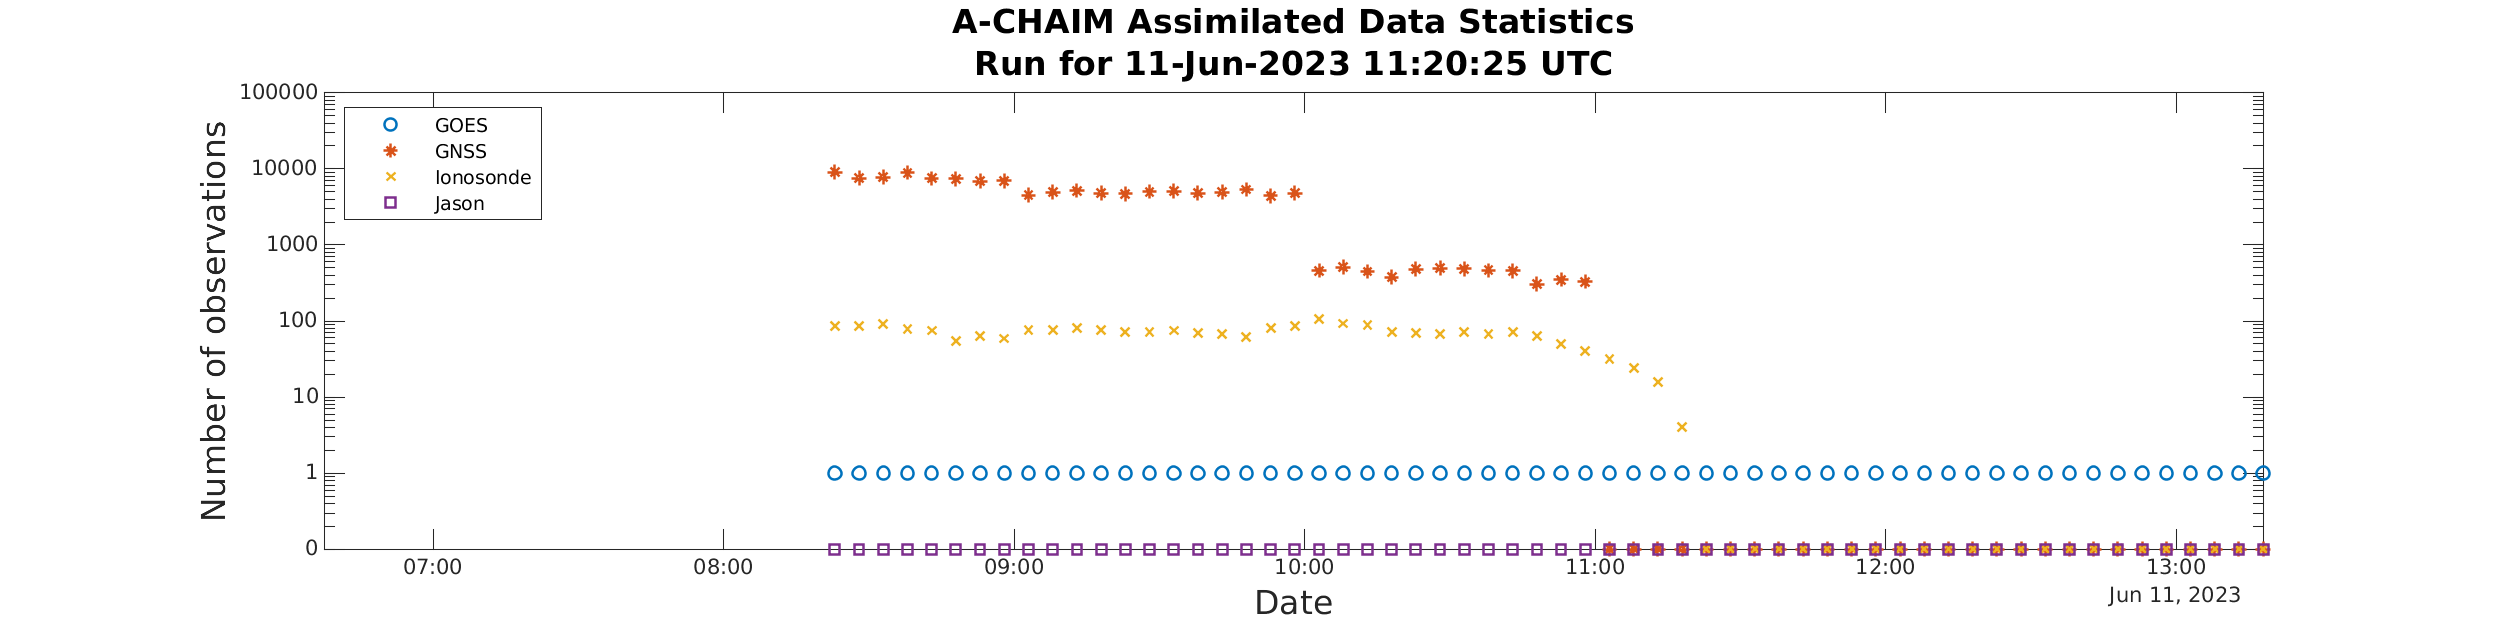
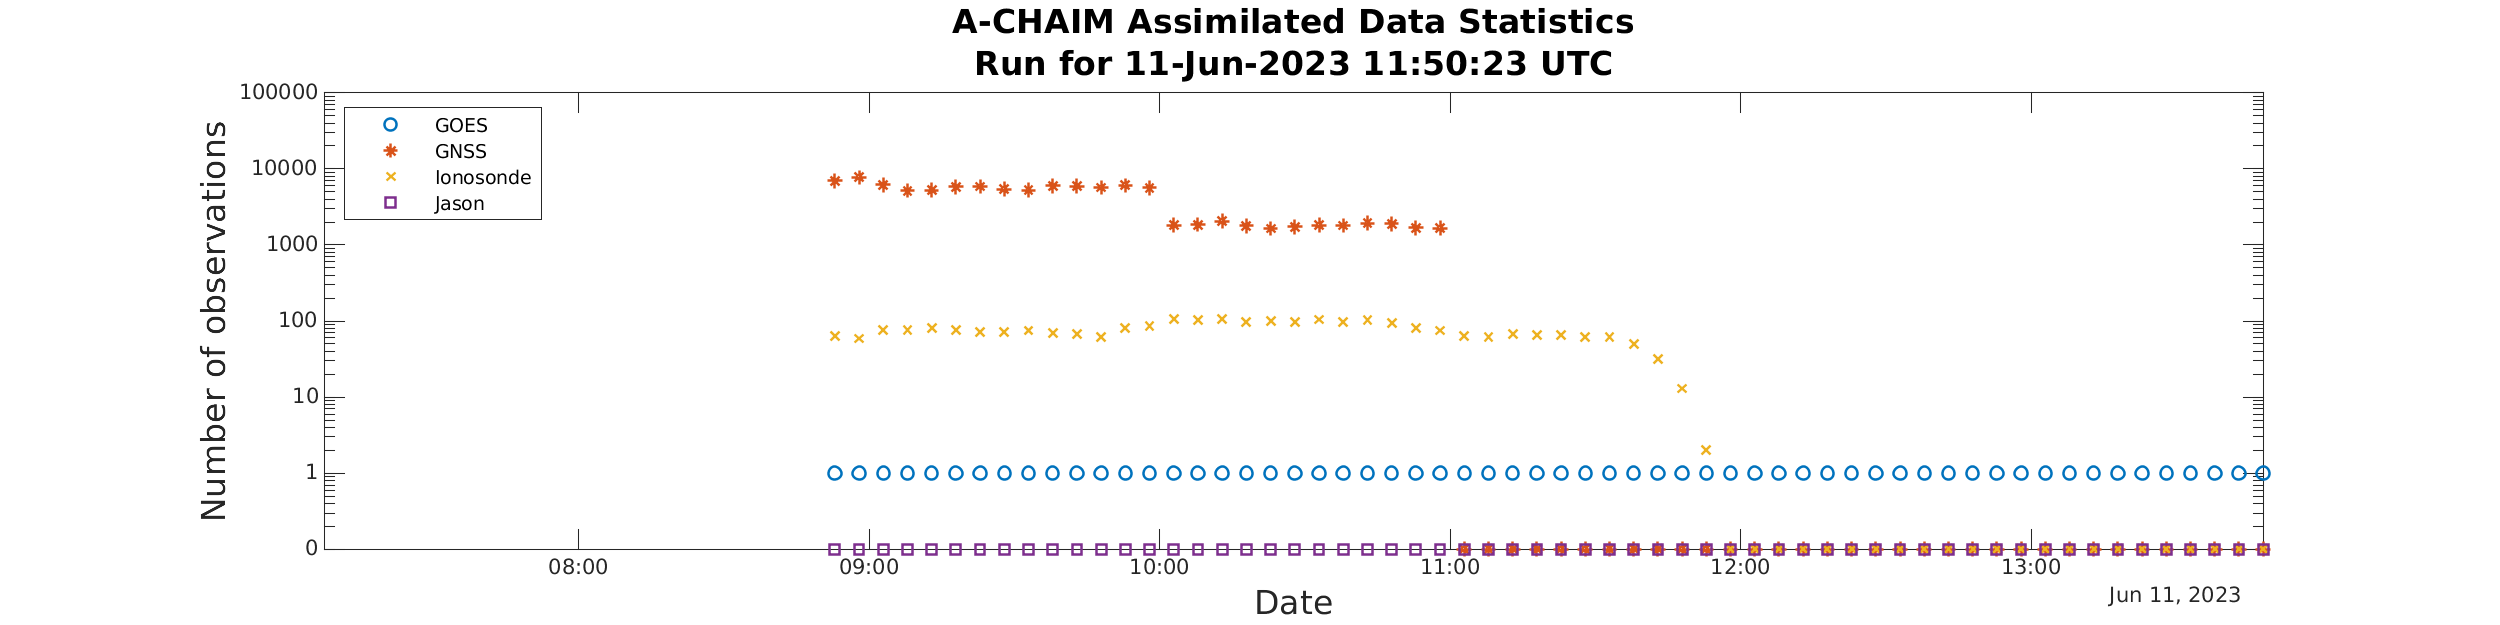
update 2023-06-11 12:15:52

diff --git a/_posts/2023-06-11-11-50-23.md b/_posts/2023-06-11-11-50-23.md
@@ -1,8 +1,8 @@
 ---
 layout: post
-title: "2023-06-11 11:20:25"
-subtitle: "ModelData Issues: 2; A-CHAIM System Issues: 0"
-
+title: "2023-06-11 11:50:23"
+subtitle: "ModelData Issues: 3; A-CHAIM System Issues: 2"
+permalink: /latest/
 ---
 
 ![]({{ "/assets/img/achaimDataStatsShort-2316211.png" | relative_url }})
@@ -17,12 +17,17 @@ subtitle: "ModelData Issues: 2; A-CHAIM System Issues: 0"
 ### ModelData Issues:  
   
 {: .box-warning}  
- ModelData report for 11-Jun-2023 11:20:09   
+ ModelData report for 11-Jun-2023 11:50:09   
  /home/chaim/ACHAIM_SERVER/A-CHAIM/modelData/2023/162/11/modelData.mat   
- 0% of all possible stations for KASI were downloaded. x4562   
- 0% of all possible stations for CHAIN were downloaded. x3523   
+ 21.1268% of IONO foF2 data is non-zero and finite.   
+ 0% of all possible stations for KASI were downloaded. x4563   
+ 0% of all possible stations for CHAIN were downloaded. x3524   
   
-
+### A-CHAIM System Issues:  
+  
+{: .box-error}  
+2023-06-11 11:50:18 Conversion to logical from string is not possible.  
+2023-06-11 12:08:40 Subscripted assignment between dissimilar structures.  
 
 ### Logs:  
   
